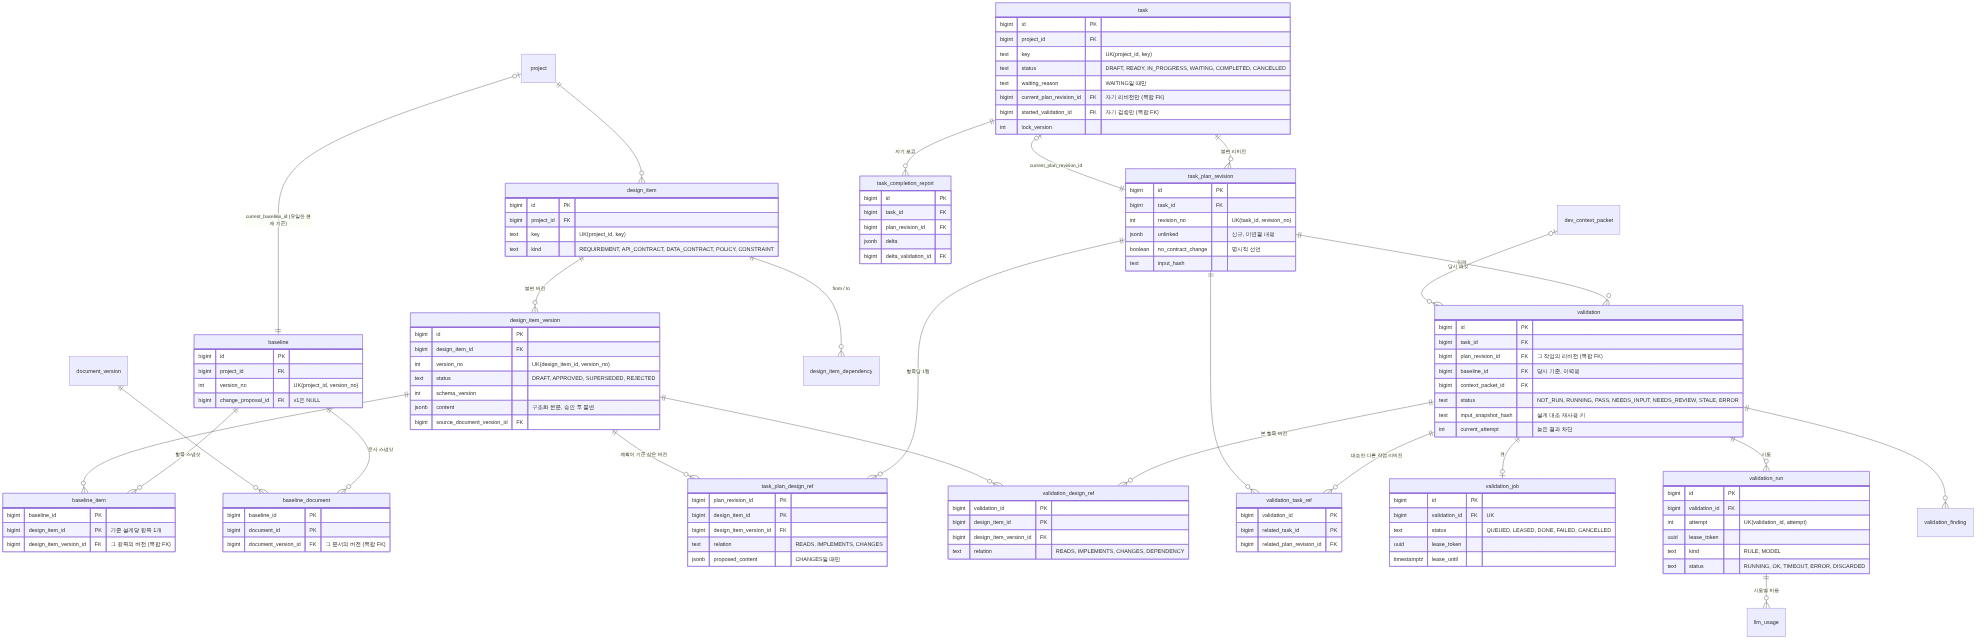
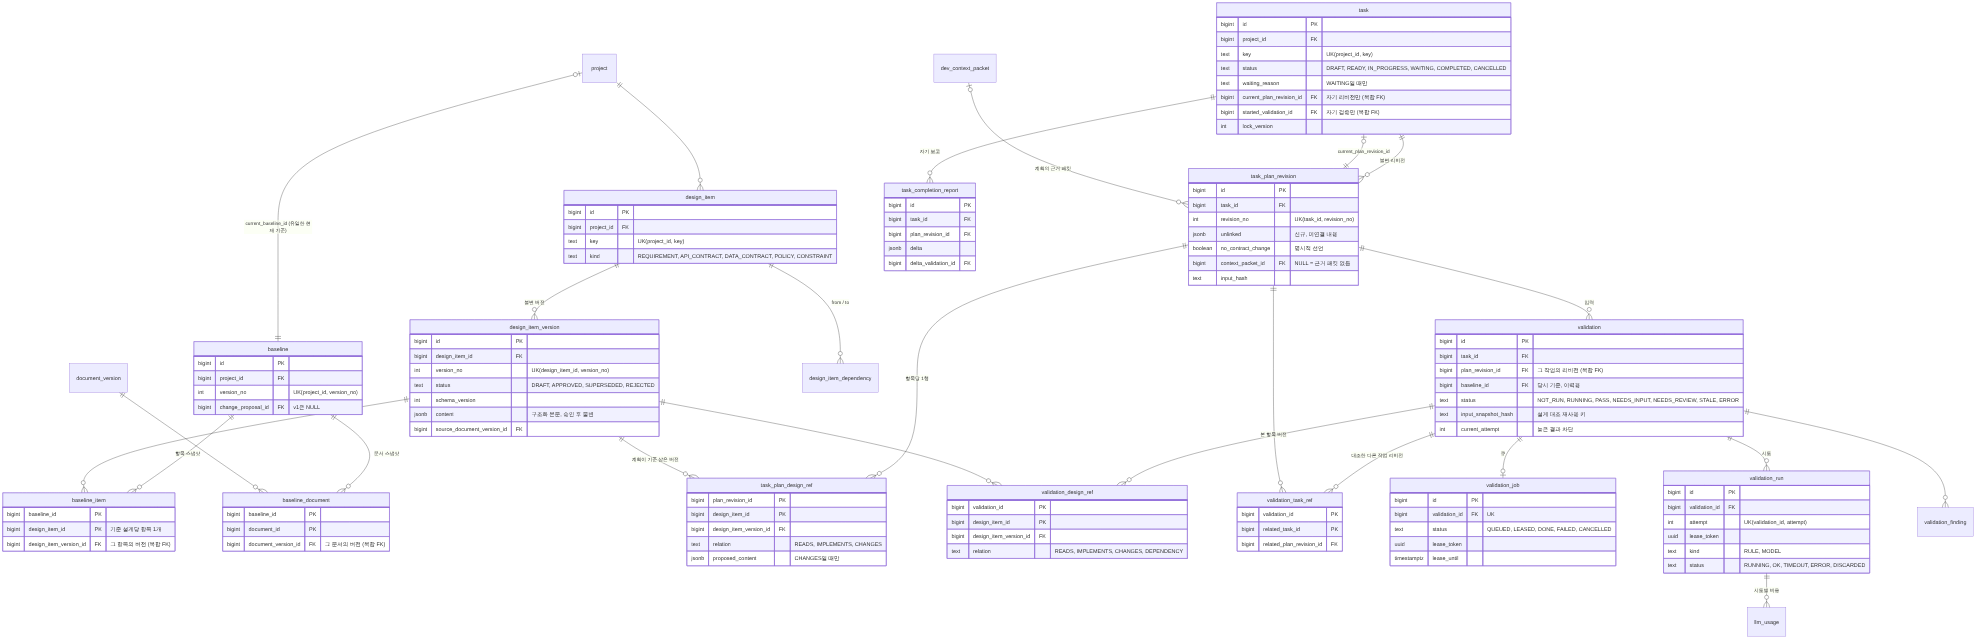
docs: 개발 컨텍스트 리뷰 반영 — 패킷 연결·context_record 구조·최초 발행 문서 스냅샷 (S15P31A108-23)
- F2: get_development_context 호출 시 불변 패킷 저장, upsert_task_plan이 packetId를 받아 계획 리비전에 연결
- ERD: task_plan_revision.context_packet_id 추가, validation.context_packet_id 제거 (근거 패킷은 리비전으로 추적)
- ERD: context_record 컬럼 명시, 수정은 새 리비전 + UNIQUE(previous_id)로 동시 수정 거부, context_record_ref 추가 (43개)
- F1: 최초 발행 트랜잭션에 문서 버전 승인과 baseline_document 생성 포함
- ERD 이미지 재생성, 검증 결과에 4건 추가

Claude-Session: https://claude.ai/code/session_0151aperABsu7jF3N2Q46meZ

diff --git a/docs/design/03-erd.md b/docs/design/03-erd.md
@@ -19,13 +19,15 @@
 | 표시 키 전역 UK | `(project_id, key)` UK |
 | 보완 질문·답변 저장 위치 없음 | `planning_question` |
 | 회의 원문·참여 상태 없음 | `meeting_participant`, `meeting_entry`. MTG-01~03은 `change_comment` 재사용 |
-| 컨텍스트 패킷 보존 (TRC-03) | `dev_context_packet` + `dev_context_packet_ref`. 검증이 패킷을 참조 |
+| 컨텍스트 패킷 보존 (TRC-03) | `get_development_context` 호출 시 `dev_context_packet`(불변) + `dev_context_packet_ref` 저장. **계획 리비전이 패킷을 참조** (`task_plan_revision.context_packet_id`, NULL = 근거 패킷 없음). 검증은 판정 기준을 `validation_design_ref`에 따로 남기고, 근거 패킷은 리비전을 통해 추적 |
+| `context_record` 구조 (find/read/write_context) | 수정 = 새 리비전 행(불변). `UNIQUE(previous_id)`로 같은 리비전을 두 사람이 동시에 고치면 두 번째가 거부(409). 참조 버전은 `context_record_ref`로 저장해 조회 시 현재 기준과 비교("과거 버전" 표시) |
+| 최초 발행의 문서 스냅샷 | v1 발행에도 `baseline_document` 생성 (02 F1) |
 | 워커 실행 소유권 | `validation_job.lease_token`, `validation_run.lease_token`, `validation.current_attempt` (fencing) |
 | current 포인터 이중 관리 | **`design_item.current_approved_version_id`, `document.current_approved_version_id` 삭제.** 현재 버전은 `project.current_baseline_id` → `baseline_item` / `baseline_document` 조인으로만 구한다. `task.baseline_id`, `task.latest_validation_id`도 삭제 |
 | 단순 FK는 소속을 보장하지 않음 | `(id, parent_id)` 복합 FK로 소유 관계 보장 (아래 4절) |
 | 불변성이 문장뿐 | 트리거로 UPDATE 차단 (승인 항목 버전 본문, 기준 설계, 계획 리비전·참조, 검증 참조, 승인, 완료 보고, 패킷) |
 
-## 1. 테이블과 소유자 (42개)
+## 1. 테이블과 소유자 (43개)
 
 | 묶음 | 테이블 | 소유 |
 |---|---|---|
@@ -33,11 +35,11 @@
 | B. 문서·설계·기준 설계 | document, document_version, design_item, design_item_version, baseline, baseline_item, baseline_document, design_item_dependency, planning_question | 오서현 |
 | B. 변경·승인·협의 | change_proposal, change_proposal_item, change_comment, approval, meeting, meeting_participant, meeting_entry | 오서현 |
 | C. 작업·계획·검증 | task, task_plan_revision, task_plan_design_ref, task_dependency, task_completion_report, validation, validation_design_ref, validation_task_ref, validation_run, validation_job, validation_finding | 변준성 |
-| C'. 개발 컨텍스트 | dev_context_packet, dev_context_packet_ref, context_record, document_chunk | 박상은 (MCP-05~07 도구 계약은 전진 주관) |
+| C'. 개발 컨텍스트 | dev_context_packet, dev_context_packet_ref, context_record, context_record_ref, document_chunk | 박상은 (MCP-05~07 도구 계약은 전진 주관) |
 | C'. 조회 이력·비용 | context_access_log, llm_usage | 변준성 (llm_usage 기록은 각 AI 기능) |
 | D. 운영 공통 | notification, activity_event, mcp_audit_log | 전진 |
 
-공통: `id BIGINT GENERATED ALWAYS AS IDENTITY`, `created_at`·`updated_at TIMESTAMPTZ`, enum은 TEXT + CHECK, 구조화 데이터는 JSONB, 물리 삭제 없음. 연결 테이블(`baseline_item`, `baseline_document`, `design_item_dependency`, `task_plan_design_ref`, `task_dependency`, `validation_design_ref`, `validation_task_ref`, `dev_context_packet_ref`, `meeting_participant`)은 복합 PK 예외.
+공통: `id BIGINT GENERATED ALWAYS AS IDENTITY`, `created_at`·`updated_at TIMESTAMPTZ`, enum은 TEXT + CHECK, 구조화 데이터는 JSONB, 물리 삭제 없음. 연결 테이블(`baseline_item`, `baseline_document`, `design_item_dependency`, `task_plan_design_ref`, `task_dependency`, `validation_design_ref`, `validation_task_ref`, `dev_context_packet_ref`, `context_record_ref`, `meeting_participant`)은 복합 PK 예외.
 
 ## 2. 핵심 관계 — 설계 · 계획 · 검증
 
@@ -63,7 +65,7 @@ erDiagram
   validation ||--o{ validation_task_ref : "대조한 다른 작업 리비전"
   design_item_version ||--o{ validation_design_ref : ""
   task_plan_revision ||--o{ validation_task_ref : ""
-  dev_context_packet |o--o{ validation : "당시 패킷"
+  dev_context_packet |o--o{ task_plan_revision : "계획의 근거 패킷"
   validation ||--o| validation_job : "큐"
   validation ||--o{ validation_run : "시도"
   validation ||--o{ validation_finding : ""
@@ -116,6 +118,7 @@ erDiagram
     int revision_no "UK(task_id, revision_no)"
     jsonb unlinked "신규, 미연결 내용"
     boolean no_contract_change "명시적 선언"
+    bigint context_packet_id FK "NULL = 근거 패킷 없음"
     text input_hash
   }
   task_plan_design_ref {
@@ -130,7 +133,6 @@ erDiagram
     bigint task_id FK
     bigint plan_revision_id FK "그 작업의 리비전 (복합 FK)"
     bigint baseline_id FK "당시 기준, 이력용"
-    bigint context_packet_id FK
     text status "NOT_RUN, RUNNING, PASS, NEEDS_INPUT, NEEDS_REVIEW, STALE, ERROR"
     text input_snapshot_hash "설계 대조 재사용 키"
     int current_attempt "늦은 결과 차단"
@@ -194,12 +196,53 @@ erDiagram
   meeting ||--o{ meeting_participant : ""
   meeting ||--o{ meeting_entry : "분석 대상 텍스트"
 
+  project ||--o{ dev_context_packet : ""
   dev_context_packet ||--o{ dev_context_packet_ref : "포함한 항목 버전"
   project ||--o{ context_record : "공유 작업 기록"
+  context_record ||--o{ context_record_ref : "참조 항목 버전"
+  dev_context_packet |o--o{ context_record : "작성 당시 패킷"
   agent_token ||--o{ context_access_log : ""
   project ||--o{ notification : ""
   project ||--o{ activity_event : ""
   agent_token ||--o{ mcp_audit_log : ""
+
+  dev_context_packet {
+    bigint id PK
+    bigint project_id FK
+    bigint task_id FK "선택"
+    bigint agent_token_id FK
+    text request "자연어 개발 요청"
+    bigint baseline_id FK "조회 당시 기준"
+    jsonb content "항목, 제약, 미확정, 출처"
+    text content_hash
+  }
+  dev_context_packet_ref {
+    bigint packet_id PK
+    bigint design_item_id PK
+    bigint design_item_version_id FK
+  }
+  context_record {
+    bigint id PK
+    bigint project_id FK
+    bigint root_id FK "첫 리비전 id"
+    bigint previous_id FK "UK, 동시 수정 거부"
+    int revision_no
+    bigint task_id FK
+    bigint plan_revision_id FK "작성 당시 계획"
+    bigint source_packet_id FK "작성 당시 패킷"
+    bigint author_account_id FK
+    bigint author_token_id FK "NULL = 웹에서 작성"
+    text kind "DECISION, PROGRESS, ISSUE, HANDOVER"
+    text visibility "SHARED, PRIVATE"
+    text summary "find 대상"
+    text detail
+    vector embedding
+  }
+  context_record_ref {
+    bigint record_id PK
+    bigint design_item_id PK
+    bigint design_item_version_id FK
+  }
 ```
 
 ![나머지 관계](erd-others.png)
@@ -245,6 +288,10 @@ PostgreSQL 16.15 + pgvector에서 실행한 검증 결과 (2026-10-22).
 | 무관한 설계 변경 후 시작 (D4·D5 충돌 해결) | `validation_design_ref` 버전 비교 | 이전 기준 PASS로 시작 성공 ✓ |
 | 변경 항목을 CHANGES한 진행 중 작업 | 발행 트랜잭션에서 STALE + WAITING | WAITING(REVALIDATION) ✓ |
 | 변경 항목을 READS한 작업 | 같은 경로 | 시작 전이면 시작 거부, 진행 중이면 WAITING ✓ |
+| 최초 발행에 문서 스냅샷 포함 | 발행 트랜잭션에서 `baseline_document` 생성 | v1 문서 스냅샷 생성 ✓ |
+| 패킷 불변, 계획 리비전이 패킷 참조 | 트리거 · FK | 수정 거부, 연결 확인 ✓ |
+| `context_record` 같은 리비전 동시 수정 | `UNIQUE(previous_id)` | 두 번째 거부 ✓ |
+| `context_record` 리비전 불변, 최신·과거 버전 판별 | 트리거 · 후속 없는 행 · 현재 기준 비교 | 수정 거부, "과거 버전" 표시 ✓ |
 
 `try_start`, `publish_change` 테스트 함수는 서비스 로직을 SQL로 옮긴 **프로토타입**이다. 실제 구현은 Java 서비스에 두고, 이 시나리오를 Testcontainers 통합 테스트로 옮긴다.
 

diff --git a/docs/design/02-system-flow.md b/docs/design/02-system-flow.md
@@ -27,7 +27,8 @@ sequenceDiagram
   W->>B: PATCH /api/human/design-items/*
   L->>W: 초안 승인 (PLN-08)
   W->>B: POST /api/human/baselines (승인 권한 검사)
-  B-->>B: 트랜잭션: 항목 버전 APPROVED → baseline v1 + baseline_item 스냅샷 (PLN-09, NFR-04)
+  B-->>B: 같은 트랜잭션: project 행 FOR UPDATE → 항목 버전·문서 버전 APPROVED → baseline v1 + baseline_item + baseline_document → current_baseline_id (PLN-09, NFR-04, DOC-08)
+  Note over B: baseline_document가 빠지면 현재 승인 문서 조회와 청크 검색 대상이 비므로 최초 발행에도 반드시 포함
   B-->>B: activity_event(BASELINE_PUBLISHED)
   L->>W: 팀원 초대 (MEM-01) · 역할·담당 영역 (MEM-04·05)
   M->>W: 초대 수락 (MEM-02) → 에이전트 토큰 발급 (ACC-05)
@@ -54,14 +55,15 @@ sequenceDiagram
   Note over C: 작업 시작 (CLAUDE.md 규칙)
   C->>M: get_development_context(projectId, request, taskId?)
   M->>S: 승인 설계 조회 (taskId 연결 항목 + 의존 항목 + 미확정)
-  S-->>C: JSON {설계 항목, 제약, 미확정, 출처, baseline v}
+  S->>DB: dev_context_packet(불변) + dev_context_packet_ref(포함한 항목 버전) 저장 · context_access_log
+  S-->>C: JSON {packetId, 설계 항목(키·버전), 제약, 미확정, 출처, baseline v}
   Note over C: 계획 수립
-  C->>M: upsert_task_plan(taskId?, 목표, 범위, 접근, reads[], changes[], unlinked[], noContractChange?, 완료 기준, expectedRevision?)
-  M->>S: task · task_plan_revision(n) 저장 (충돌 시 409)
+  C->>M: upsert_task_plan(taskId?, packetId?, 목표, 범위, 접근, reads[], changes[], unlinked[], noContractChange?, 완료 기준, expectedRevision?)
+  M->>S: task · task_plan_revision(n, context_packet_id) · task_plan_design_ref 저장 (충돌 시 409, packetId 없으면 "근거 패킷 없음" 표시)
   S-->>C: {taskId, planRevision n}
 
   C->>M: validate_task_plan(taskId, planRevision n)
-  M->>S: validation 생성 · validation_design_ref(참조 항목 버전) 저장 (입력 스냅샷 해시로 설계 대조 결과 재사용)
+  M->>S: validation 생성 · validation_design_ref(판정에 쓴 항목 버전) · validation_task_ref 저장. 근거 패킷은 리비전 → context_packet_id로 추적 (입력 스냅샷 해시로 설계 대조 결과 재사용)
   S->>R: 동기 규칙 검사
   R->>DB: 필수 칸·항목 ID 확인 · 구조화 계약 대조 · 같은 항목 CHANGES인 열린 작업 조회
   alt 규칙만으로 판정 끝남 (PASS / NEEDS_INPUT / NEEDS_REVIEW)

diff --git a/docs/design/01-system-architecture.md b/docs/design/01-system-architecture.md
@@ -80,7 +80,7 @@ flowchart LR
 | D7 발행·무효화 원자성 | 발행 서비스(오서현)가 같은 트랜잭션에서 검증 영향 서비스(변준성) 호출. 실패 시 전체 롤백. 알림·타임라인은 커밋 후 | 합의 필요 · APR-03, NFR-04 |
 | 완료 델타 | COMPLETED 요청에 계획 대비 변경 → 있으면 WAITING(REVALIDATION) 후 완료. `task_completion_report`(불변)로 저장. 자기 보고 기반 | 합의 필요 · AC-15 보완 |
 | AI 실패 폴백 | 대화·설명 = 템플릿 허용(origin 기록) · 검증 = ERROR(자동 PASS 금지) · 파싱 = 실패 상태(빈 결과 저장 금지) · 영향 분석 = 명시 관계 처리는 먼저 수행 | 담당자 결정 · NFR-06·12 |
-| 컨텍스트 | MVP `summary / detail`. 개인 기록은 명시적 제출. `kind=DECISION`은 승인 설계가 아님 | 합의 필요 (박상은 주관) · POL-02·03 |
+| 컨텍스트 | MVP `summary / detail`. `get_development_context` 결과는 불변 패킷으로 저장하고 계획 리비전이 참조. 개인 기록은 명시적 제출, 수정은 새 리비전(동시 수정 시 409). `kind=DECISION`은 승인 설계가 아님 | 합의 필요 (박상은 주관) · POL-02·03 |
 | 비용 | 모든 LLM 호출 1행, 시도별 합산 | 담당자 결정 · VAL-05, MON-05 |
 | 이벤트 | 메시지 브로커 없음. 테이블 + 중복 식별값 | 확정(업무 분담안 공통 약속) |
 
